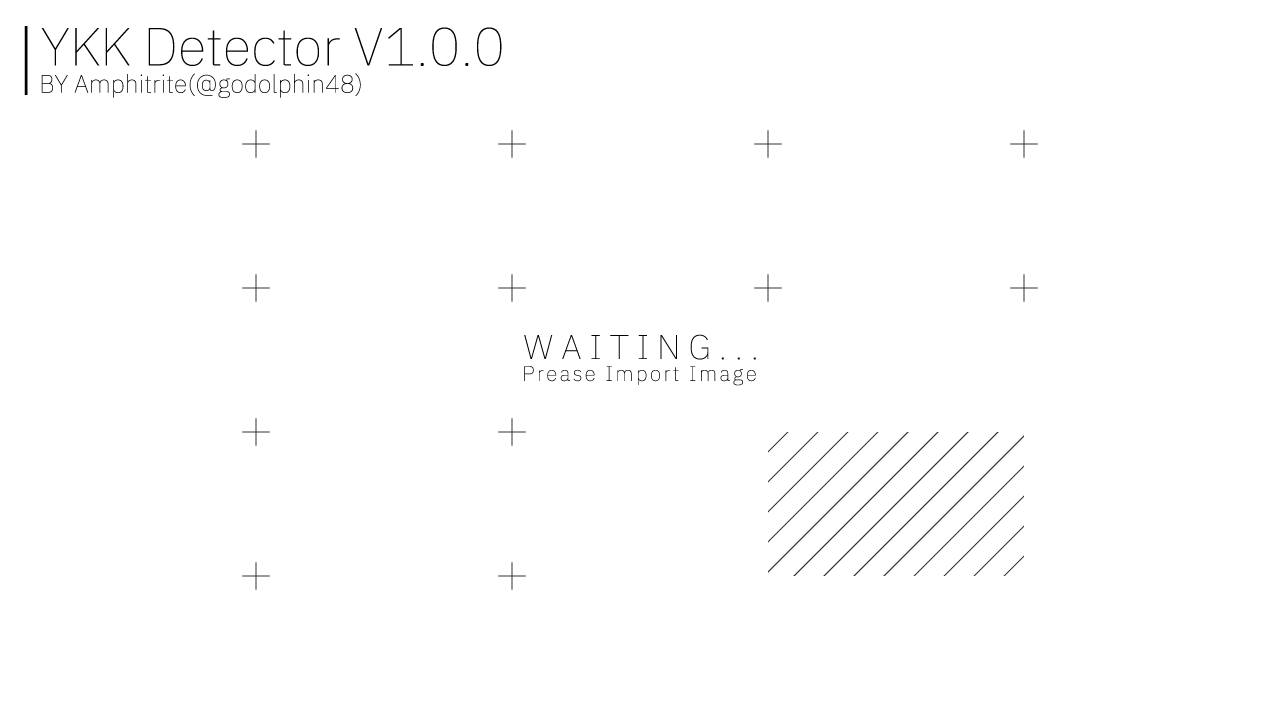
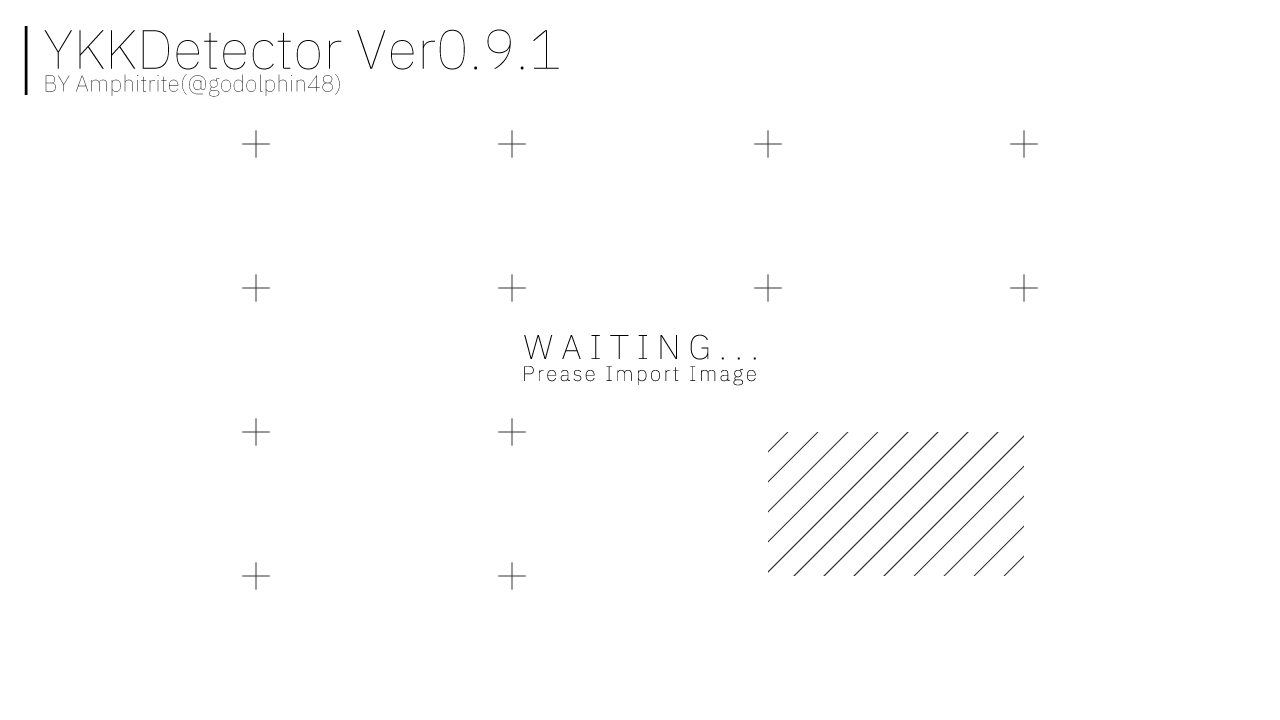
TOO MANY CHANGES
ところどころで違ってて最悪だったバージョン表記を揃えたり、拡張子を.pywにしたり、gitignoreをつっこんだり、ファイルブラウザに拡張子制限を設けたりした

Changed region(s): [[0.0312, 0.0306, 0.4062, 0.1528]]

diff --git a/README.md b/README.md
@@ -1,7 +1,7 @@
 # YKKDetector
 OpenCVを利用した機械学習データをもとに、VRChatのスクリーンショットなどからＹＫＫさん（もとい「幽狐族のお姉様」）を検出できるソフトウェアです。
 ## マニュアル
-- Pythonのインストールから解説する詳細なマニュアルを現在準備中です
+- [こちら](https://drive.google.com/file/d/13d59IjVWJq89E9kYQcl0mfLjAVKpvRNB/view?usp=sharing)から実行環境のセットアップから解説する詳細なマニュアルをご覧いただけます。
 ## ライセンス
 - 本ソフトウェアは[MIT LICENSE](https://github.com/vrm-c/UniVRM/blob/master/LICENSE.txt)のもとに提供されています。
 - ご利用の際はあわせて[「幽狐族のお姉様」のライセンス](https://armadillon.booth.pm/items/1484117)もご確認ください。
